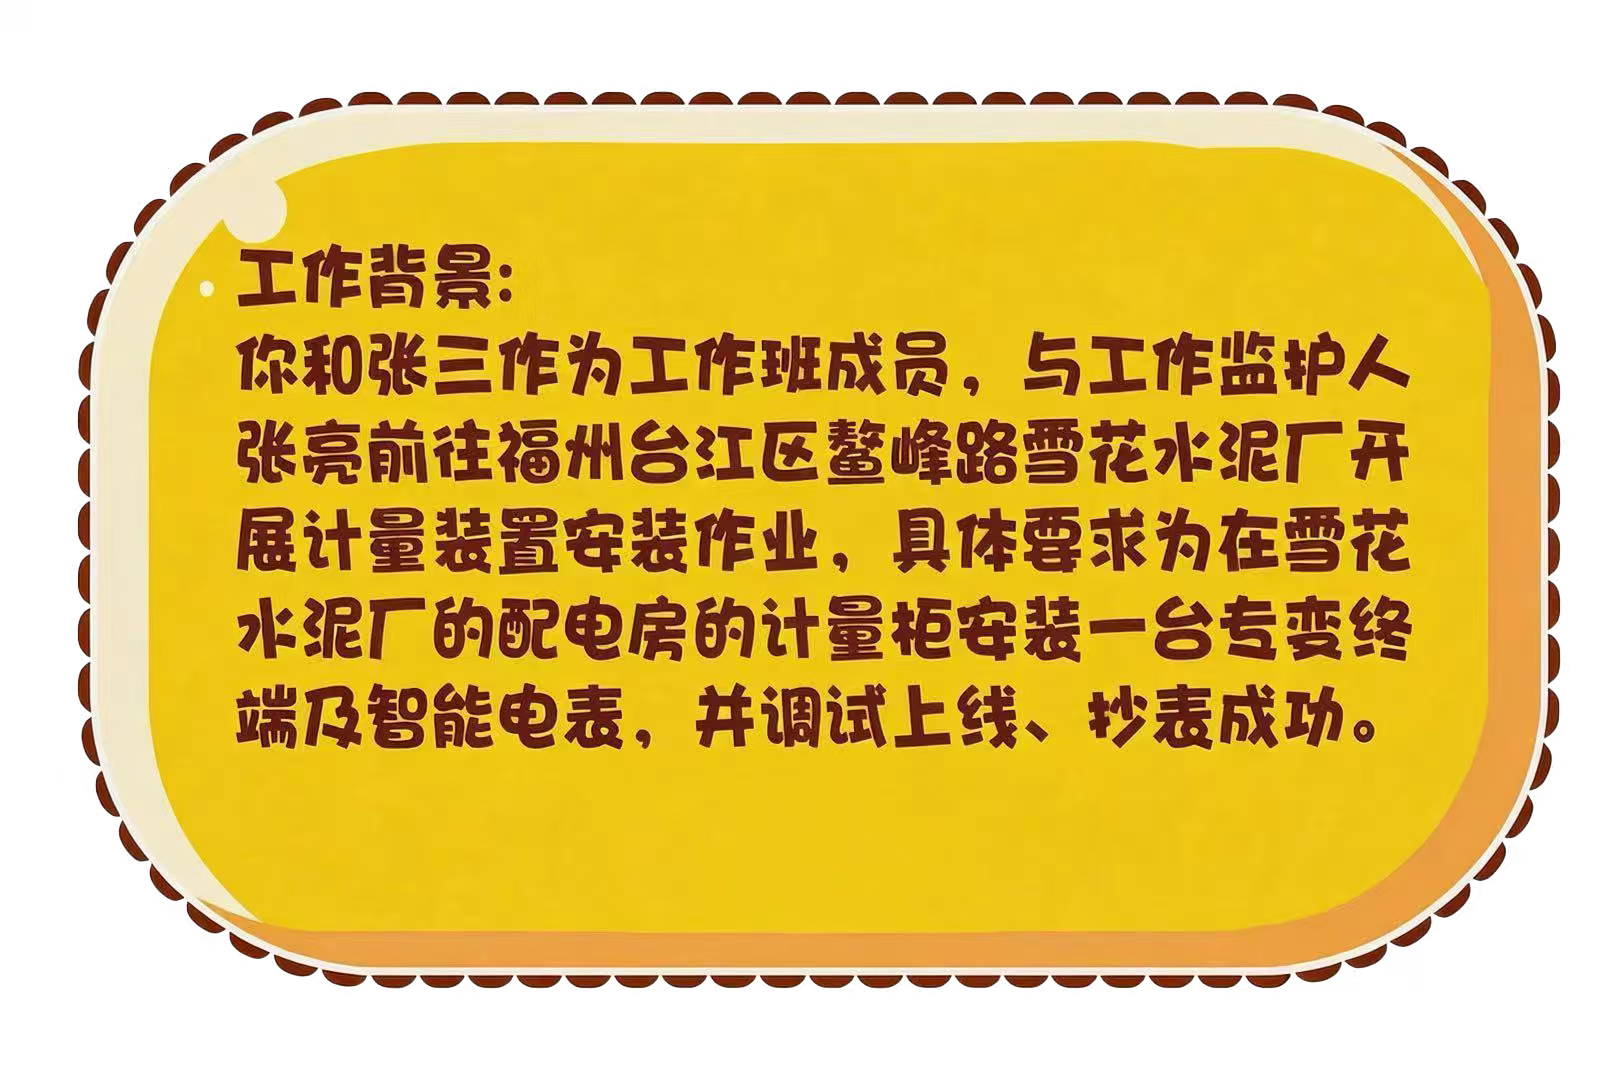
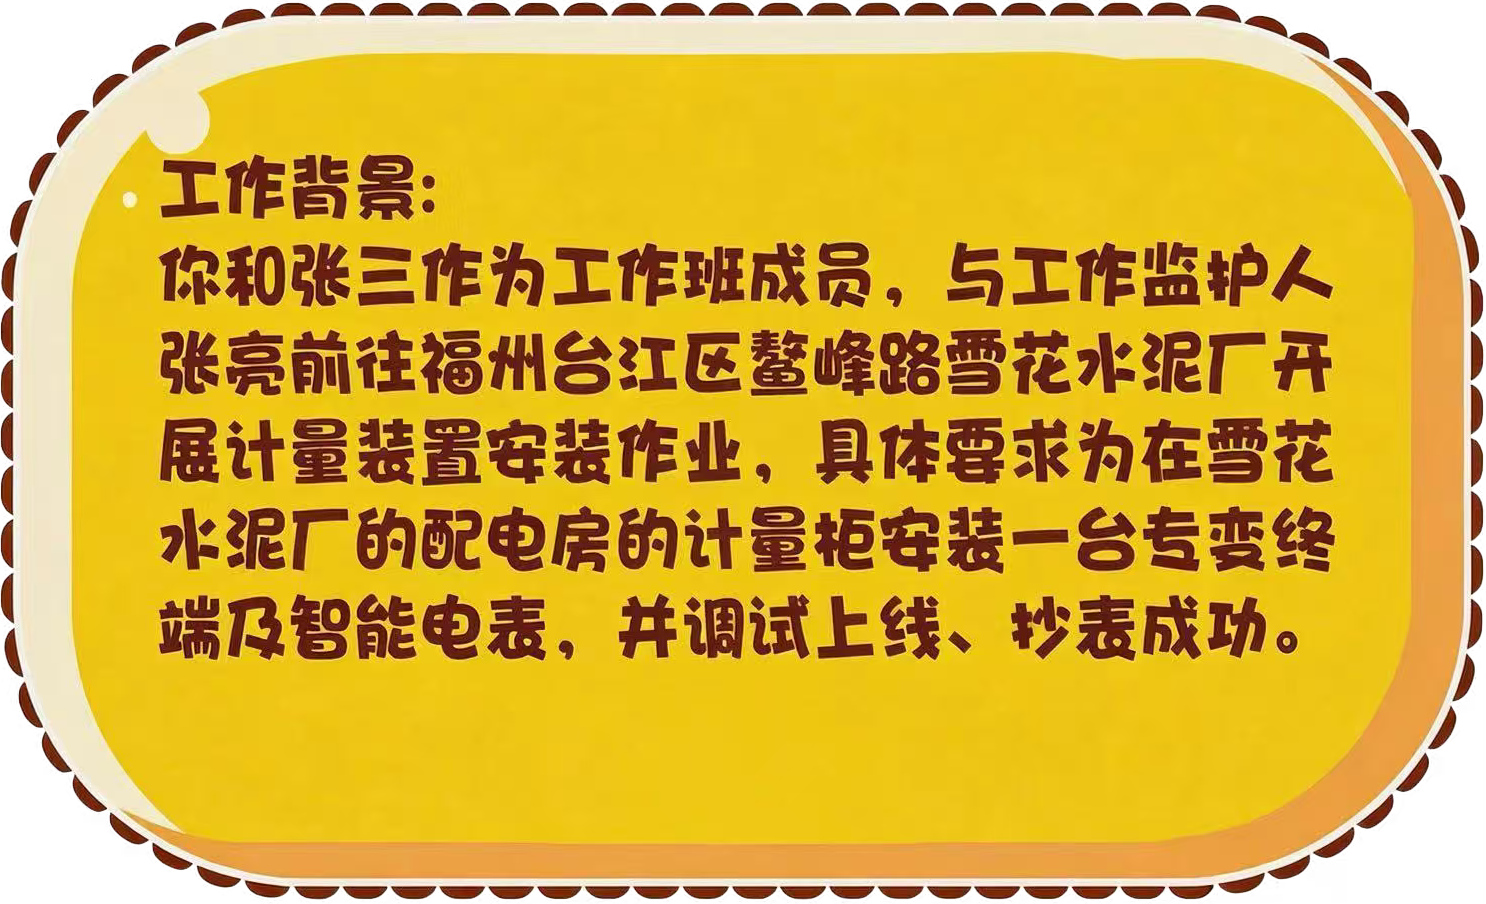
优化: 确认按钮覆盖在图片内部偏下位置，移除图片 box-shadow 消除边缘阴影

diff --git a/frontend/src/views/ExperimentView.vue b/frontend/src/views/ExperimentView.vue
@@ -3,20 +3,62 @@
 <template>
   <div class="experiment-view">
     <ScenarioSelector @select="onScenarioSelect" />
+
+    <!-- 差异介绍须知弹窗（图片预留） -->
+    <PromptModal :visible="showNotice" @close="onNoticeClose">
+      <div class="placeholder-notice">
+        <span>与真实场景差异介绍须知</span>
+        <span class="placeholder-hint">（图片待制作）</span>
+      </div>
+    </PromptModal>
+
+    <!-- 高压工作背景弹窗 -->
+    <PromptModal :visible="showWorkBg" @close="onWorkBgClose">
+      <img src="@/assets/images/HighWorkBackground.png" alt="高压工作背景" class="work-bg-img" />
+    </PromptModal>
   </div>
 </template>
 
 <script setup>
+import { ref } from 'vue'
 import { useRouter } from 'vue-router'
 import { useAuthStore } from '@/stores/auth'
 import ScenarioSelector from '@/components/ScenarioSelector.vue'
+import PromptModal from '@/components/PromptModal.vue'
 import { startExperiment, getUnfinishedExperiments, deleteExperiment } from '@/api/experiment'
 import { ElMessage, ElMessageBox } from 'element-plus'
 
 const router = useRouter()
 const authStore = useAuthStore()
 
+const showNotice = ref(false)
+const showWorkBg = ref(false)
+let pendingType = null  // 暂存场景类型，供弹窗关闭后使用
+
 async function onScenarioSelect(type) {
+  pendingType = type
+  // 先展示差异介绍须知
+  showNotice.value = true
+}
+
+// 关闭须知 → 展示工作背景
+function onNoticeClose() {
+  showNotice.value = false
+  if (pendingType === 'high') {
+    showWorkBg.value = true
+  } else {
+    // 低压暂不展示工作背景，直接启动
+    doStartExperiment(pendingType)
+  }
+}
+
+// 关闭工作背景 → 启动实验
+function onWorkBgClose() {
+  showWorkBg.value = false
+  doStartExperiment(pendingType)
+}
+
+async function doStartExperiment(type) {
   // 先检查是否有未完成实验（按场景类型过滤）
   try {
     const category = type === 'high' ? 'high_voltage' : 'low_voltage'
@@ -28,8 +70,10 @@ async function onScenarioSelect(type) {
         await ElMessageBox.confirm(
           `检测到未完成实验「${exp.templateName}」，已完成 ${exp.completedSteps}/${exp.totalSteps} 步。是否继续？`,
           '恢复实验',
-          { confirmButtonText: '继续实验', cancelButtonText: '重新开始', type: 'info',
-            distinguishCancelAndClose: true }
+          {
+            confirmButtonText: '继续实验', cancelButtonText: '重新开始', type: 'info',
+            distinguishCancelAndClose: true
+          }
         )
         // 继续 → 跳转到当前未完成步骤
         sessionStorage.setItem('experimentId', exp.experimentId)
@@ -49,13 +93,13 @@ async function onScenarioSelect(type) {
       }
     }
     // 无未完成记录 或 重新开始 → 启动实验
-    await doStartExperiment(type)
+    await startNewExperiment(type)
   } catch (_) {
     ElMessage.error('查询实验记录失败，请稍后重试')
   }
 }
 
-async function doStartExperiment(type) {
+async function startNewExperiment(type) {
   const templateCode = type == 'high' ? 'HV_TRAIN_V1' : 'LV_TRAIN_V1'
   try {
     const res = await startExperiment(templateCode)
@@ -76,15 +120,35 @@ async function doStartExperiment(type) {
   width: 100vw;
   height: 100vh;
   padding: 10vh 10vw;
-  background-image: url(@/assets/images/ExperimentViewBackgroundImage.jpg);
+  background-image: url(@/assets/images/ExperimentViewBackground.jpg);
   background-size: contain;
-  /* 让图片等比缩放铺满容器，多余部分裁剪 */
   background-position: center;
-  /* 居中显示 */
   background-repeat: no-repeat;
-  /* 不重复 */
   display: flex;
   flex-direction: column;
   align-items: center;
+}
+
+.placeholder-notice {
+  text-align: center;
+  font-size: 20px;
+  color: #fff;
+  padding: 40px;
+  border: 2px dashed rgba(255, 255, 255, .4);
+  border-radius: 12px;
+  min-width: 400px;
+}
+
+.placeholder-hint {
+  display: block;
+  margin-top: 12px;
+  font-size: 14px;
+  color: rgba(255, 255, 255, .5);
+}
+
+.work-bg-img {
+  max-width: 80vw;
+  max-height: 70vh;
+  border-radius: 8px;
 }
 </style>

diff --git a/frontend/src/views/HighVoltage/HToolSelectionView.vue b/frontend/src/views/HighVoltage/HToolSelectionView.vue
@@ -10,6 +10,14 @@
                 </el-icon> 保存进度
             </el-button>
         </div>
+
+        <!-- 查看工作背景按钮（左下角） -->
+        <div class="work-bg-btn" @click="showWorkBg = true" title="查看工作背景" />
+
+        <!-- 高压工作背景弹窗 -->
+        <PromptModal :visible="showWorkBg" @close="showWorkBg = false">
+            <img src="@/assets/images/HighWorkBackground.png" alt="高压工作背景" class="work-bg-img" />
+        </PromptModal>
     </div>
 </template>
 
@@ -18,6 +26,7 @@ import { ref, reactive, onMounted, onUnmounted } from 'vue'
 import { useRoute, useRouter } from 'vue-router'
 import { ElMessage } from 'element-plus'
 import { Suitcase, FolderOpened } from '@element-plus/icons-vue'
+import PromptModal from '@/components/PromptModal.vue'
 import WizardInventorySelection from '@/components/HighVoltage/HWizardInventorySelection.vue'
 import { categories } from '@/constants/tool-selection-config'
 import { submitStep, saveDraft, getStepDraft } from '@/api/experiment'
@@ -27,6 +36,7 @@ const route = useRoute()
 const router = useRouter()
 
 const wizardRef = ref(null)
+const showWorkBg = ref(false)
 
 // 从路由 query 获取实验元数据
 const experimentId = ref(route.query.experimentId || '')
@@ -150,5 +160,32 @@ const handleToolSelectionSubmit = async (selectedMap) => {
     bottom: 24px;
     right: 24px;
     z-index: 100;
+}
+
+/* 查看工作背景按钮（左下角，图片预留） */
+.work-bg-btn {
+    position: fixed;
+    bottom: 24px;
+    left: 24px;
+    z-index: 100;
+    width: 60px;
+    height: 60px;
+    cursor: pointer;
+    /* TODO: 替换为实际按钮图片 */
+    background: rgba(255, 255, 255, .6);
+    border: 1px dashed #73BCBB;
+    border-radius: 8px;
+    transition: transform 0.2s;
+}
+
+.work-bg-btn:hover {
+    transform: scale(1.05);
+}
+
+.work-bg-img {
+    max-width: 80vw;
+    max-height: 70vh;
+    border-radius: 8px;
+
 }
 </style>

diff --git a/frontend/src/components/PromptModal.vue b/frontend/src/components/PromptModal.vue
@@ -1,0 +1,78 @@
+<!-- 通用提示弹窗：灰色透明背景 + 内容插槽 + 覆盖确认按钮 -->
+<template>
+    <Teleport to="body">
+        <div v-if="visible" class="modal-overlay" @click.self="$emit('close')">
+            <div class="modal-body">
+                <!-- 内容区域（确认按钮覆盖在上方） -->
+                <div class="modal-content">
+                    <slot />
+                    <div class="confirm-btn" @click.stop="$emit('close')" />
+                </div>
+            </div>
+        </div>
+    </Teleport>
+</template>
+
+<script setup>
+defineProps({
+    visible: { type: Boolean, default: false }
+})
+defineEmits(['close'])
+</script>
+
+<style scoped>
+.modal-overlay {
+    position: fixed;
+    inset: 0;
+    z-index: 9999;
+    display: flex;
+    align-items: center;
+    justify-content: center;
+    background: rgba(0, 0, 0, 0.55);
+}
+
+.modal-body {
+    max-width: 90vw;
+    max-height: 90vh;
+}
+
+.modal-content {
+    position: relative;
+    display: flex;
+    align-items: center;
+    justify-content: center;
+}
+
+.modal-content :slotted(img) {
+    display: block;
+    max-width: 80vw;
+    max-height: 70vh;
+    border-radius: 8px;
+}
+
+/* 确认按钮 — 覆盖在内容偏下位置，与场景选择按钮风格一致的悬停动画 */
+.confirm-btn {
+    position: absolute;
+    bottom: 30px;
+    left: 50%;
+    transform: translateX(-50%);
+    width: 140px;
+    height: 50px;
+    cursor: pointer;
+    background-image: url('@/assets/images/ConfirmButton.png');
+    background-size: contain;
+    background-repeat: no-repeat;
+    background-position: center;
+    transition: transform 0.2s;
+    z-index: 10;
+}
+
+.confirm-btn:hover {
+    background-image: url('@/assets/images/ConfirmButtonHover.png');
+    transform: translateX(-50%) scale(1.05);
+}
+
+.confirm-btn:active {
+    transform: translateX(-50%) scale(0.95);
+}
+</style>

diff --git a/frontend/src/views/HighVoltage/HWorkTicketView.vue b/frontend/src/views/HighVoltage/HWorkTicketView.vue
@@ -10,6 +10,14 @@
                 </el-icon> 保存进度
             </el-button>
         </div>
+
+        <!-- 查看工作背景按钮（左下角） -->
+        <div class="work-bg-btn" @click="showWorkBg = true" title="查看工作背景" />
+
+        <!-- 高压工作背景弹窗 -->
+        <PromptModal :visible="showWorkBg" @close="showWorkBg = false">
+            <img src="@/assets/images/HighWorkBackground.png" alt="高压工作背景" class="work-bg-img" />
+        </PromptModal>
     </div>
 </template>
 
@@ -20,12 +28,14 @@ import { ElMessage } from 'element-plus'
 import { FolderOpened } from '@element-plus/icons-vue'
 import { submitStep, saveDraft, getStepDraft } from '@/api/experiment'
 import { formatLocalTime } from '@/utils/time'
+import PromptModal from '@/components/PromptModal.vue'
 import WorkTicketForm from '@/components/HighVoltage/HWorkTicketForm.vue'
 
 const route = useRoute()
 const router = useRouter()
 
 const formRef = ref(null)
+const showWorkBg = ref(false)
 
 // 从路由 query 获取实验元数据
 const experimentId = ref(route.query.experimentId || '')
@@ -162,5 +172,32 @@ const handleTicketSubmit = async (result) => {
     bottom: 24px;
     right: 24px;
     z-index: 100;
+}
+
+/* 查看工作背景按钮（左下角，图片预留） */
+.work-bg-btn {
+    position: fixed;
+    bottom: 24px;
+    left: 24px;
+    z-index: 100;
+    width: 60px;
+    height: 60px;
+    cursor: pointer;
+    /* TODO: 替换为实际按钮图片 */
+    background: rgba(255, 255, 255, .6);
+    border: 1px dashed #73BCBB;
+    border-radius: 8px;
+    transition: transform 0.2s;
+}
+
+.work-bg-btn:hover {
+    transform: scale(1.05);
+}
+
+.work-bg-img {
+    max-width: 80vw;
+    max-height: 70vh;
+    border-radius: 8px;
+
 }
 </style>
